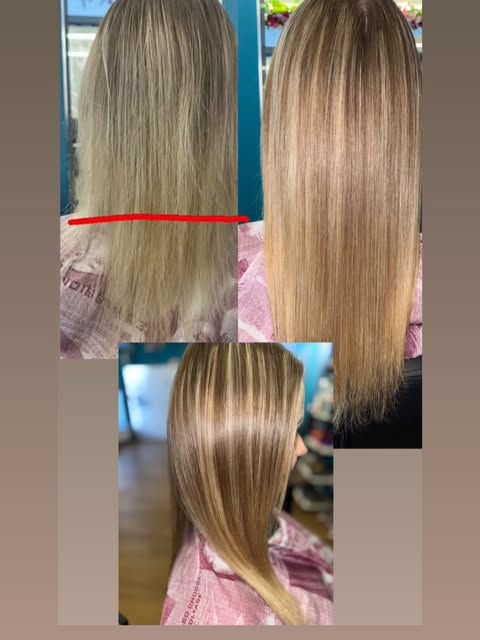
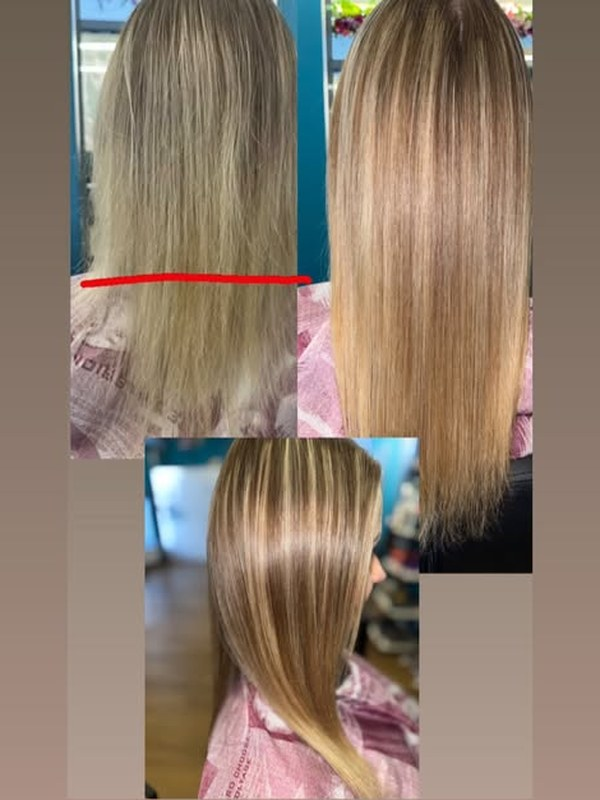
Ujednolic galerię i popraw wyrównanie na telefonie
Galeria. Zdjęcia były zrzutami z Instagrama o różnych proporcjach — 3:4,
9:16 i jedno poziome — więc kartki kończyły się na różnych wysokościach
i siatka wyglądała na rozsypaną. Do tego sześć z nich miało u góry i u dołu
jednolite paski ze story, od 14 do 91 px. Skrypt wykrył paski po tym, że
cały wiersz ma jeden kolor, obciął je, a potem dociosał każde zdjęcie do
wspólnych 600x800. Oryginały leżą w archiwum/foto-oryginaly.

Kolaż meta-przed-po kadrowany od góry, a nie od środka, żeby nie zostawała
w kadrze ucięta czerwona strzałka ze story.

Siatka jest teraz równa: cztery karty w rzędzie na komputerze, dwie na
tablecie, jedna na telefonie, wszystkie tej samej wielkości.

Telefon. Kadr metamorfozy w hero i portret w sekcji Poznajmy się stały przy
lewej krawędzi, zostawiając po prawej pusty pas na pół ekranu. Kadr jest
teraz wyśrodkowany (wyżej się nie da — razem z tekstem musi zmieścić się
w jednym ekranie), a portret bierze całą szerokość kolumny: 343 px zamiast
233 px przy oknie 375.

Changed region(s): [[0.0938, 0.0, 0.9062, 1.0], [0.5938, 0.4688, 0.625, 0.5]]

diff --git a/index.html b/index.html
@@ -12,7 +12,7 @@
 <link rel="preconnect" href="https://fonts.googleapis.com">
 <link rel="preconnect" href="https://fonts.gstatic.com" crossorigin>
 <link href="https://fonts.googleapis.com/css2?family=Inter:wght@300;400;500;600&family=Prata&display=swap" rel="stylesheet">
-<link rel="stylesheet" href="style.css?v=28">
+<link rel="stylesheet" href="style.css?v=30">
 </head>
 <body>
 
@@ -213,14 +213,14 @@
   </div>
 
   <div class="galeria__grid">
-    <figure class="reveal"><img src="media/foto/meta-brunet.jpg" alt="Metamorfoza: wyjście ze spalonego blondu do lśniącego ciemnego brązu" loading="lazy" width="480" height="362"><figcaption>Po spalonym blondzie nie ma śladu — regularne podcinanie, zabiegi i zmiana koloru na ciemniejszy. Przedłużanie dopiero po 9 miesiącach.</figcaption></figure>
-    <figure class="reveal"><img src="media/foto/meta-natalia.jpg" alt="Metamorfoza: od cienkich włosów do 100 g przedłużenia na długości 60 cm" loading="lazy" width="480" height="640"><figcaption>Od kwietnia 2025: botoks, cięcie, 100 g na 60 cm i korekty co 3 miesiące.</figcaption></figure>
-    <figure class="reveal"><img src="media/foto/meta-blond.jpg" alt="Metamorfoza blond: przycięcie zniszczonych końcówek i wyrównanie koloru" loading="lazy" width="480" height="640"><figcaption>Czerwona linia to ilość, którą trzeba było oddać. Rok później włosy są dłuższe niż na starcie.</figcaption></figure>
-    <figure class="reveal"><img src="media/foto/meta-przed-po.jpg" alt="Metamorfoza: przerzedzone włosy przed zabiegiem i po przedłużeniu" loading="lazy" width="361" height="640"><figcaption>Konsultacja, plan, termin. Pasemka, botoks, cięcie techniczne, 65 g Nano Invisible.</figcaption></figure>
-    <figure class="reveal"><img src="media/foto/meta-bok.jpg" alt="Metamorfoza: wykruszone boki po prostownicy odbudowane i rozjaśnione" loading="lazy" width="480" height="640"><figcaption>Wykruszone boki po prostownicy i rozjaśnianiu. Czasem wystarczy naprawdę niewiele.</figcaption></figure>
-    <figure class="reveal"><img src="media/foto/przed-zniszczone.jpg" alt="Stan włosów przed zabiegiem: przesuszone, postrzępione końcówki" loading="lazy" width="361" height="640"><figcaption>Tak wygląda punkt wyjścia, którego zwykle nikt nie pokazuje.</figcaption></figure>
-    <figure class="reveal"><img src="media/foto/efekt-blond.jpg" alt="Efekt: lśniący, wielowymiarowy blond" loading="lazy" width="480" height="640"><figcaption>Blond złożony z kilku odcieni, dobrany do naturalnego odrostu.</figcaption></figure>
-    <figure class="reveal"><img src="media/foto/hero-long.jpg" alt="Efekt: długie, gęste włosy po przedłużeniu" loading="lazy" width="361" height="640"><figcaption>70 gramów, 60 centymetrów.</figcaption></figure>
+    <figure class="reveal"><img src="media/foto/meta-brunet.jpg" alt="Metamorfoza: wyjście ze spalonego blondu do lśniącego ciemnego brązu" loading="lazy" width="600" height="800"><figcaption>Po spalonym blondzie nie ma śladu — regularne podcinanie, zabiegi i zmiana koloru na ciemniejszy. Przedłużanie dopiero po 9 miesiącach.</figcaption></figure>
+    <figure class="reveal"><img src="media/foto/meta-natalia.jpg" alt="Metamorfoza: od cienkich włosów do 100 g przedłużenia na długości 60 cm" loading="lazy" width="600" height="800"><figcaption>Od kwietnia 2025: botoks, cięcie, 100 g na 60 cm i korekty co 3 miesiące.</figcaption></figure>
+    <figure class="reveal"><img src="media/foto/meta-blond.jpg" alt="Metamorfoza blond: przycięcie zniszczonych końcówek i wyrównanie koloru" loading="lazy" width="600" height="800"><figcaption>Czerwona linia to ilość, którą trzeba było oddać. Rok później włosy są dłuższe niż na starcie.</figcaption></figure>
+    <figure class="reveal"><img src="media/foto/meta-przed-po.jpg" alt="Metamorfoza: przerzedzone włosy przed zabiegiem i po przedłużeniu" loading="lazy" width="600" height="800"><figcaption>Konsultacja, plan, termin. Pasemka, botoks, cięcie techniczne, 65 g Nano Invisible.</figcaption></figure>
+    <figure class="reveal"><img src="media/foto/meta-bok.jpg" alt="Metamorfoza: wykruszone boki po prostownicy odbudowane i rozjaśnione" loading="lazy" width="600" height="800"><figcaption>Wykruszone boki po prostownicy i rozjaśnianiu. Czasem wystarczy naprawdę niewiele.</figcaption></figure>
+    <figure class="reveal"><img src="media/foto/przed-zniszczone.jpg" alt="Stan włosów przed zabiegiem: przesuszone, postrzępione końcówki" loading="lazy" width="600" height="800"><figcaption>Tak wygląda punkt wyjścia, którego zwykle nikt nie pokazuje.</figcaption></figure>
+    <figure class="reveal"><img src="media/foto/efekt-blond.jpg" alt="Efekt: lśniący, wielowymiarowy blond" loading="lazy" width="600" height="800"><figcaption>Blond złożony z kilku odcieni, dobrany do naturalnego odrostu.</figcaption></figure>
+    <figure class="reveal"><img src="media/foto/hero-long.jpg" alt="Efekt: długie, gęste włosy po przedłużeniu" loading="lazy" width="600" height="800"><figcaption>70 gramów, 60 centymetrów.</figcaption></figure>
   </div>
 
   <a class="btn btn--ghost galeria__more reveal" href="https://www.instagram.com/zaplecione_stw/" target="_blank" rel="noopener">
@@ -512,6 +512,6 @@
 <!-- ?v= przy arkuszu i skrypcie: bez tego przeglądarka trzyma poprzednią
      wersję z cache i po wgraniu poprawki trzeba odświeżać z Ctrl+Shift+R.
      Numer podbijam przy każdej zmianie w tych dwóch plikach. -->
-<script src="script.js?v=28"></script>
+<script src="script.js?v=30"></script>
 </body>
 </html>

diff --git a/style.css b/style.css
@@ -334,7 +334,11 @@ a{ color:inherit; }
 
 @media (max-width:900px){
   /* Zdjęcie idzie nad tekst — obok siebie zostawałaby na oba za wąska kolumna. */
-  .hero__inner{ grid-template-columns:1fr; gap:var(--space-4); justify-items:start; justify-content:start; }
+  /* Jedna kolumna: kadr metamorfozy stoi pośrodku, bo przy wyrównaniu do lewej
+     zostawał po prawej pusty pas na pół ekranu. Wyżej nie da się go powiększyć —
+     razem z tekstem musi się zmieścić w jednym ekranie. */
+  .hero__inner{ grid-template-columns:1fr; gap:var(--space-4); justify-items:center; justify-content:center; }
+  .hero__tresc{ width:100%; }
   .metam{ --uchwyt:2rem; }
   .metam__kadr{ height:min(42svh, 17rem); }
   .hero__nazwa{ width:100%; max-width:260px; }
@@ -441,11 +445,11 @@ section[id]{ scroll-margin-top:calc(var(--nav-h) + 1rem); }
 /* ---------- Galeria ---------- */
 .galeria{ max-width:var(--maxw); margin-inline:auto; }
 .galeria .lead{ margin-top:var(--space-3); }
-/* Kartki układają się do własnej treści, a nie do najwyższej w rzędzie — zdjęcia
-   mają różne proporcje i wyrównywanie ich wysokości robiło szare pasy. */
+/* Wszystkie zdjęcia są dociosane do 3:4, więc siatka może być równa. Wcześniej
+   każde miało własne proporcje i kartki kończyły się na różnych wysokościach —
+   stąd wrażenie bałaganu. */
 .galeria__grid{
-  display:grid; grid-template-columns:repeat(auto-fill,minmax(14.4rem,1fr)); gap:var(--space-3);
-  align-items:start;
+  display:grid; grid-template-columns:repeat(4,1fr); gap:var(--space-3);
 }
 /* na jasnej stronie podpisy są widoczne od razu, nie po najechaniu */
 .galeria figure{
@@ -456,12 +460,10 @@ section[id]{ scroll-margin-top:calc(var(--nav-h) + 1rem); }
   transition:transform .4s var(--ease), box-shadow .4s var(--ease);
 }
 .galeria figure:hover{ transform:translateY(-4px); box-shadow:0 16px 34px rgba(43,33,26,.11); }
-/* Zdjęcia to zrzuty z Instagrama: kolaże przed/po, kadry pionowe i poziome.
-   Wtłoczone w jedną proporcję 3:4 z object-fit:contain dostawały szerokie szare
-   pasy u góry i u dołu. Każde zachowuje teraz własne proporcje — nic nie jest
-   przycięte i nigdzie nie ma pustego pola. */
+/* Pliki są już w proporcji kartki, więc cover niczego nie obcina — stoi tu jako
+   zabezpieczenie, gdyby kiedyś doszło zdjęcie o innych wymiarach. */
 .galeria img{
-  width:100%; height:auto; display:block;
+  width:100%; height:auto; aspect-ratio:3 / 4; object-fit:cover; display:block;
 }
 .galeria figcaption{
   padding:.9rem 1rem 1.15rem;
@@ -744,10 +746,13 @@ section[id]{ scroll-margin-top:calc(var(--nav-h) + 1rem); }
 /* ---------- Responsywność ---------- */
 @media (max-width:1024px){
   .mozaika{ grid-template-columns:repeat(2,1fr); }
+  .galeria__grid{ grid-template-columns:repeat(2,1fr); }
   .skup__inner, .kontakt__inner, .iso__inner{ grid-template-columns:1fr; }
   /* portret i tekst jeden pod drugim — obok siebie zostaje na oba za wąsko */
   .poznajmy__inner{ grid-template-columns:1fr; gap:var(--space-3); }
-  .poznajmy__portret{ width:min(24rem, 62vw); }
+  /* Portret bierze całą szerokość kolumny — przy 62vw wisiał przy lewej krawędzi
+     z pustym pasem obok. */
+  .poznajmy__portret{ width:100%; max-width:24rem; }
   .cennik__para{ grid-template-columns:1fr; }
   /* na wąskim ekranie sam tytuł grupy — podpowiedź zawijałaby się w drugą linijkę */
   .cennik__hint{ display:none; }
@@ -817,8 +822,8 @@ section[id]{ scroll-margin-top:calc(var(--nav-h) + 1rem); }
   .nav .btn--sm span{ display:none; }
   .nav .btn--sm{ padding:.55rem .75rem; }
   .mozaika{ grid-template-columns:1fr; }
-  /* Zdjęcia w galerii to zrzuty z Instagrama — w dwóch kolumnach po 165 px
-     wypalone w nie napisy robiły się nieczytelne. Jedna kolumna na ekran. */
+  /* W zdjęcia wypalone są napisy — w dwóch kolumnach po 165 px robiły się
+     nieczytelne. Jedna kolumna na telefon. */
   .galeria__grid{ grid-template-columns:1fr; gap:var(--space-3); }
   .galeria figcaption{ padding:.7rem .8rem .9rem; font-size:.8rem; }
   .stopka__kolumny{ grid-template-columns:1fr; justify-items:center; text-align:center; gap:var(--space-3); }
